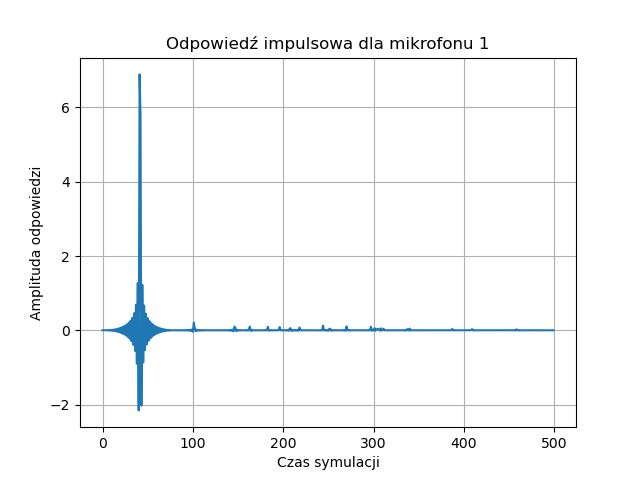
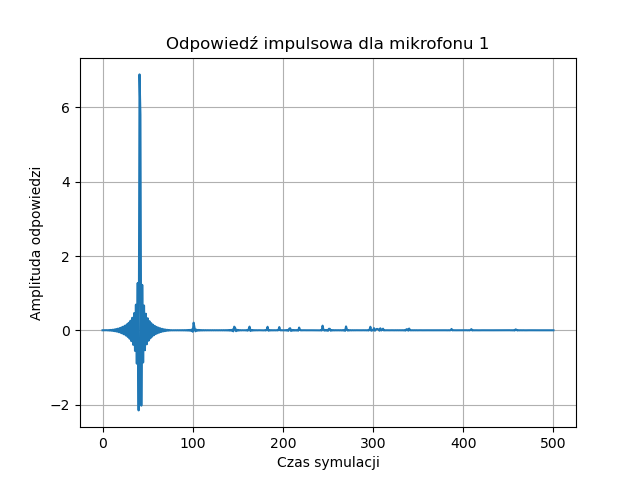
fucked around with beamformers

Changed region(s): [[0.8438, 0.9062, 0.9062, 0.9375], [0.5625, 0.6562, 0.5938, 0.7188], [0.7188, 0.6562, 0.75, 0.6875]]

diff --git a/impulse_responses_tester.py b/impulse_responses_tester.py
@@ -8,8 +8,9 @@ from time import sleep
 from pathlib import Path
 import pyroomacoustics as pra
 from matplotlib.patches import Rectangle
+from arlpy import bf, utils
 
-def make_room_impulse_responses():
+def make_beamformer_test_room_impulse_responses():
     fs = 5000
     imp_length = 0.8 # w sekundach
 
@@ -25,8 +26,8 @@ def make_room_impulse_responses():
     df = fs/test_signal.shape[0]
     fvector = np.arange(0,test_spectrum.shape[0])*df
 
-    sd.play(test_signal, fs)
-    sleep(imp_length)
+    # sd.play(test_signal, fs)
+    # sleep(imp_length)
 
     plt.figure()
     plt.plot(test_signal)
@@ -42,18 +43,20 @@ def make_room_impulse_responses():
     plt.xlabel("Częstotliwość")
     plt.ylabel("Amplituda widma")
     plt.grid(True)
-    plt.savefig("img\\test_spectrum.png")
+    plt.savefig("img_test_beamformer\\test_spectrum.png")
 
 
     room_dimensions = [7,9]
     src_position = [2.1, 3.7]
+    outside_src_1 = [2.1,7]
     mic_distance = 0.1 # to zmienić żeby nie było aliasingu
-    mic_locs = np.c_[
+    mic_locs_abs = np.c_[
         [src_position[0]+mic_distance, src_position[1]],  # mic 1
         [src_position[0], src_position[1]-mic_distance],  # mic 2
         [src_position[0]-mic_distance, src_position[1]],  # mic 3
         [src_position[0], src_position[1]+mic_distance],  # mic 4
     ]
+
     mic_locs_rel = np.asarray([
         [0+mic_distance, 0],  # mic 1
         [0, 0-mic_distance],  # mic 2
@@ -61,25 +64,34 @@ def make_room_impulse_responses():
         [0, 0+mic_distance],  # mic 4
     ])
 
-
     test_room = pra.ShoeBox(
     room_dimensions, fs=fs, materials=pra.Material(0.1), max_order=3)
-    test_room.add_source(src_position, signal=test_signal)
-    test_room.add_microphone_array(mic_locs)
-    test_room.set_ray_tracing(receiver_radius=0.05, n_rays=10000, energy_thres=1e-5)
+    test_room.add_source(outside_src_1, signal=test_signal)
+    test_room.add_microphone_array(mic_locs_abs)
+    test_room.set_ray_tracing(receiver_radius=0.05, n_rays=50000, energy_thres=1e-5)
+
+    # mics = pra.Beamformer(mic_locs_abs, test_room.fs, N=1024, Lg=0.1)
+    # test_room.add_microphone_array(mics)
+    # mics.rake_delay_and_sum_weights(test_room.sources[0][:1])
+    # fig, ax = test_room.plot(freq=[500, 1000, 2000, 4000], img_order=0)
+    # ax.legend(['500', '1000', '2000', '4000'])
+    # fig.set_size_inches(20, 8)
+    # plt.show()
+
+
     test_room.compute_rir()
     test_room.simulate()
 
     plt.figure(figsize=room_dimensions, dpi=80)
-    plt.scatter(mic_locs[0,:], mic_locs[1,:])
-    plt.scatter(src_position[0], src_position[1])
+    plt.scatter(mic_locs_abs[0,:], mic_locs_abs[1,:])
+    plt.scatter(outside_src_1[0], outside_src_1[1])
     plt.gca().add_patch(Rectangle((0,0),room_dimensions[0], room_dimensions[1], 
                         edgecolor='black',
                         facecolor='none',
                         lw=3,))
     plt.grid(True, "both")
     plt.title("Pokój testowy symulacji")
-    plt.savefig("img\\test_room.png")
+    plt.savefig("img_test_beamformer\\test_room.png")
 
     plt.figure()
     plt.plot(test_room.rir[1][0])
@@ -87,8 +99,8 @@ def make_room_impulse_responses():
     plt.xlabel("Czas symulacji")
     plt.ylabel("Amplituda odpowiedzi")
     plt.grid(True, "both")
-    plt.savefig("img\\imp_resp_example.png")
+    plt.savefig("img_test_beamformer\\imp_resp_example.png")
 
     return test_room.mic_array.signals, mic_locs_rel
 
-# print(np.shape(make_room_impulse_responses()))
+# print(np.shape(make_beamformer_test_room_impulse_responses()))

diff --git a/directional_sonar.py b/directional_sonar.py
@@ -1,0 +1,58 @@
+from impulse_responses import make_room_impulse_responses
+from impulse_responses_tester import make_beamformer_test_room_impulse_responses
+import sounddevice as sd
+from time import sleep
+from arlpy import bf, utils
+import numpy as np
+import matplotlib.pyplot as plt
+import scipy.signal
+# First - test the beamformer on a receiver outside the array
+fs = 5000
+signals, mic_locs = make_beamformer_test_room_impulse_responses()
+
+angles = [0,90,180,270]
+angles_test = [[0,0],[90,0], [180,0], [270, 0]]
+delays_test = bf.steering_plane_wave(mic_locs, 343, np.deg2rad(angles_test))
+y = bf.delay_and_sum(signals, 5000, delays_test)
+
+rsmvals = []
+for i in range(0,np.shape(y)[0]):
+    print(f"{angles_test[i]} - {np.sqrt(np.mean(y[i,:]**2))}")
+    rsmvals.append(np.sqrt(np.mean(y[i,:]**2)))
+
+plt.figure()
+plt.bar([0,90,180,270], rsmvals, width=2)
+plt.title("RMS uzyskane przez beamformer dla kątów padania")
+plt.ylabel("RMS sygnału")
+plt.xticks([0,90,180,270])
+plt.xlabel("Kąt sterujący")
+plt.grid(True, "both")
+plt.savefig("img_test_beamformer\\test_signal_RMS.png")
+
+#Now test the beamformer on a real scenario
+
+signals, mic_locs = make_room_impulse_responses()
+angles_test = [[0,0],[90,0], [180,0], [270, 0]]
+delays_test = bf.steering_plane_wave(mic_locs, 343, np.deg2rad(angles_test))
+y = bf.delay_and_sum(signals, 5000, delays_test)
+
+for i in range(0,np.shape(y)[0]):
+    corr = np.correlate(y[i,:], y[i,:], mode="full")
+    corr_oneside = corr[int(np.shape(corr)[0]/2):]
+    print(int(np.shape(corr)[0]/2))
+    plt.figure()
+    plt.plot(corr_oneside)
+    plt.savefig("img\\signal_1_autocorr.png")
+
+    peaks, _ = scipy.signal.find_peaks(corr_oneside, distance = 200)
+    peakvals = corr_oneside[peaks]
+    high_to_low = np.argsort(peakvals)
+    reflection_delay = (peaks[high_to_low[0]]-peaks[high_to_low[1]])/fs
+    reflection_distance = 343*reflection_delay/2
+    print(reflection_distance)
+    plt.figure()
+    plt.plot(corr_oneside)
+    plt.plot(peaks, corr_oneside[peaks], "x")
+    plt.savefig(f"img\\signal_{angles[i]}_PEAKS_autocorr.png")
+
+
